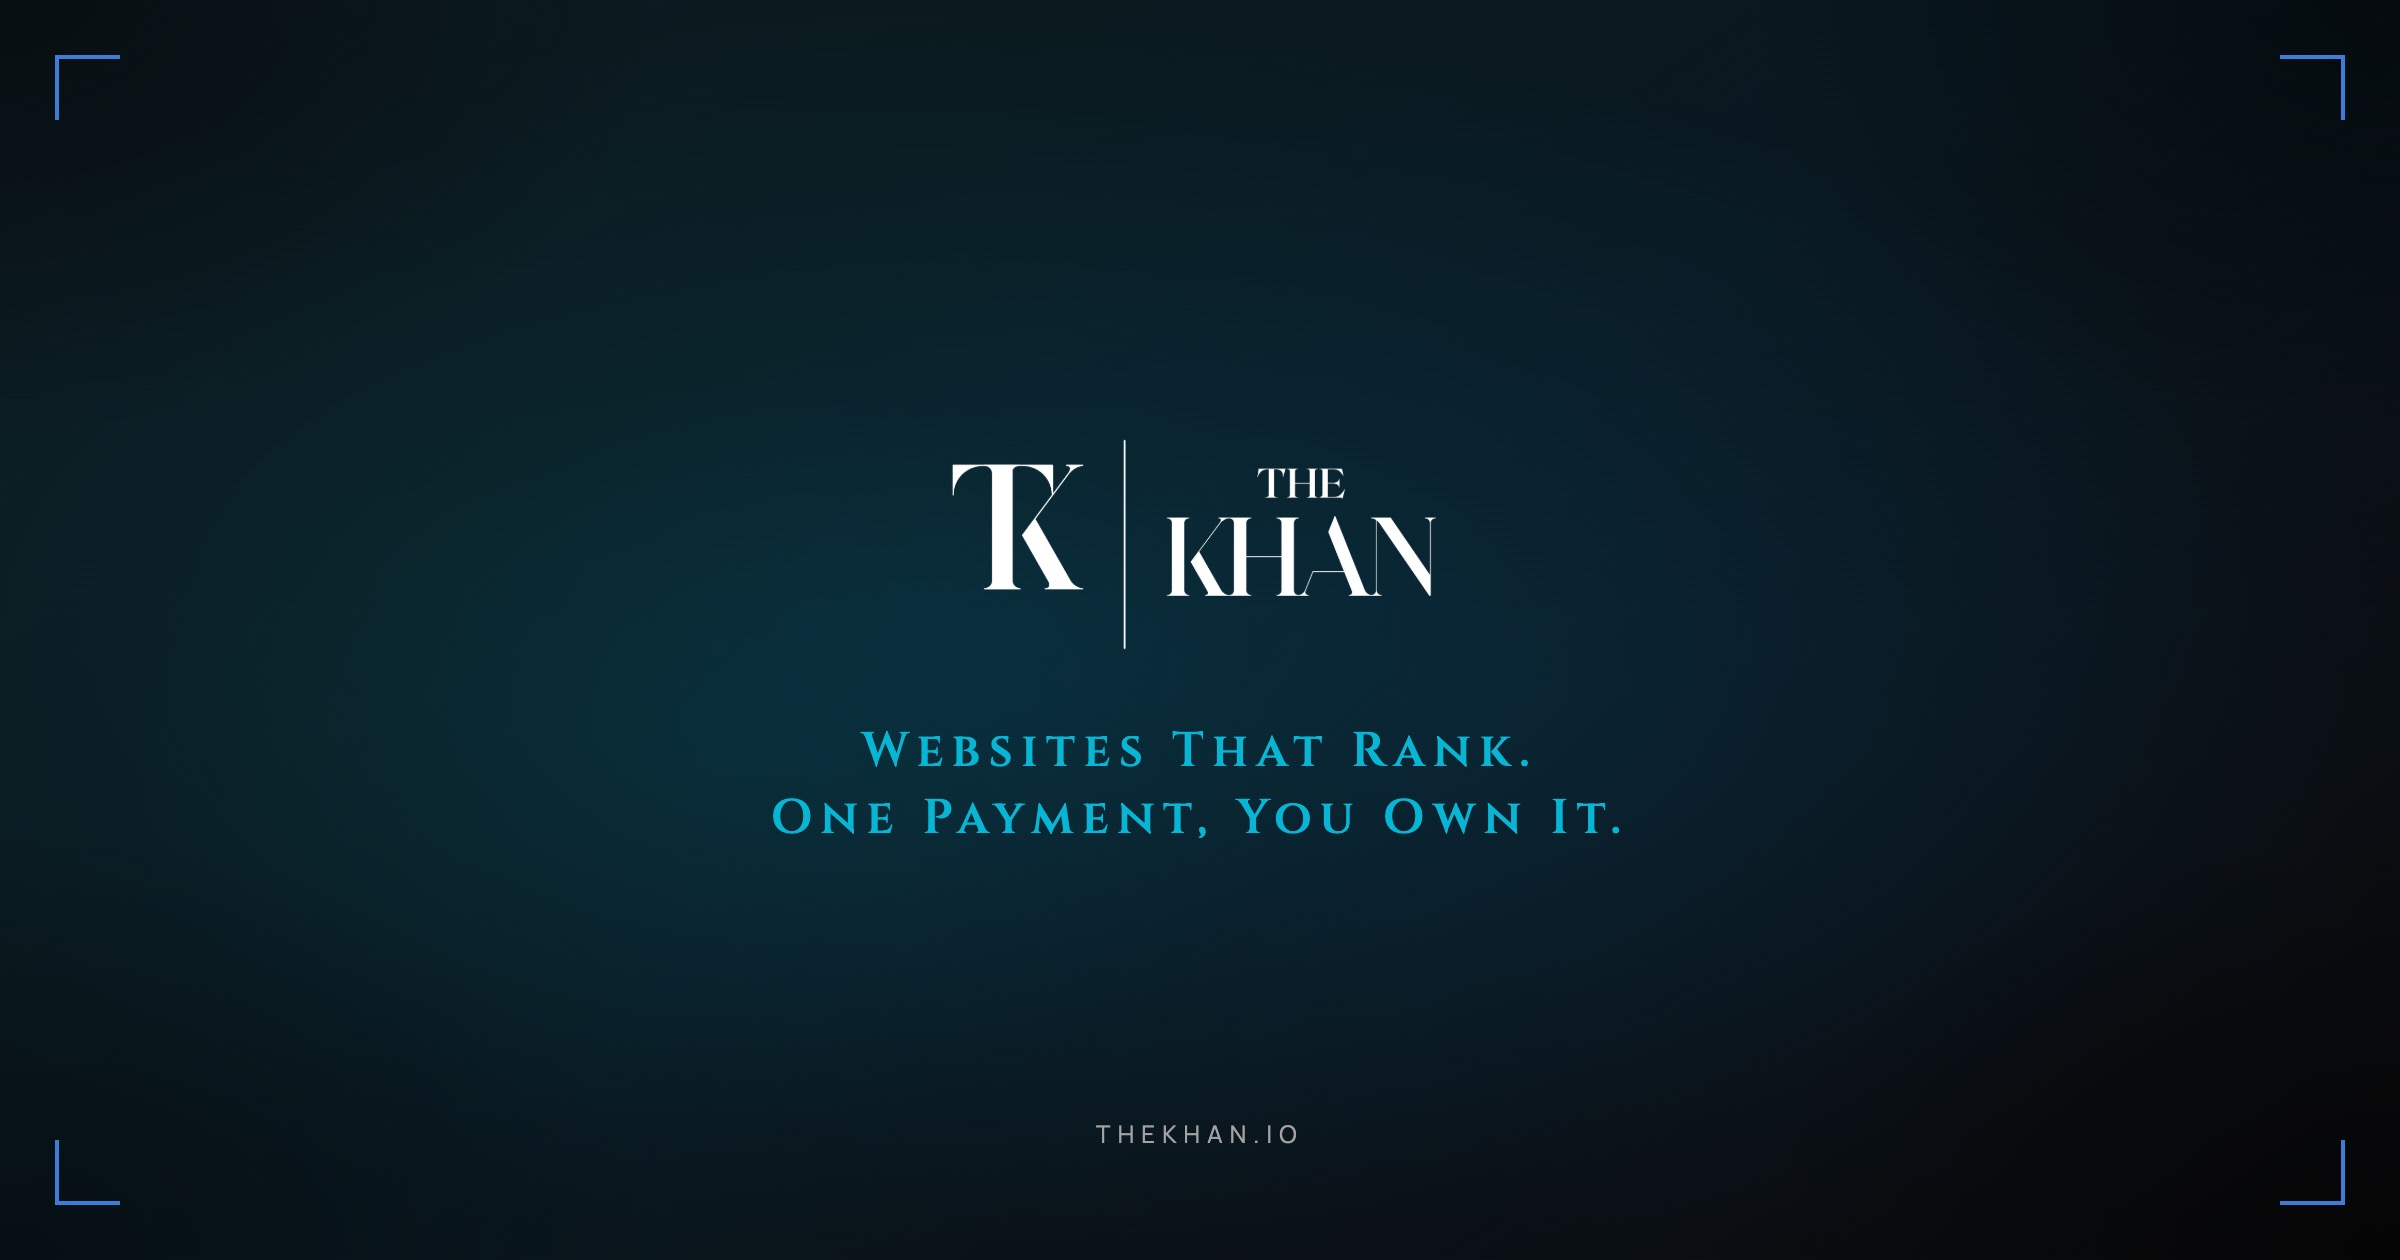
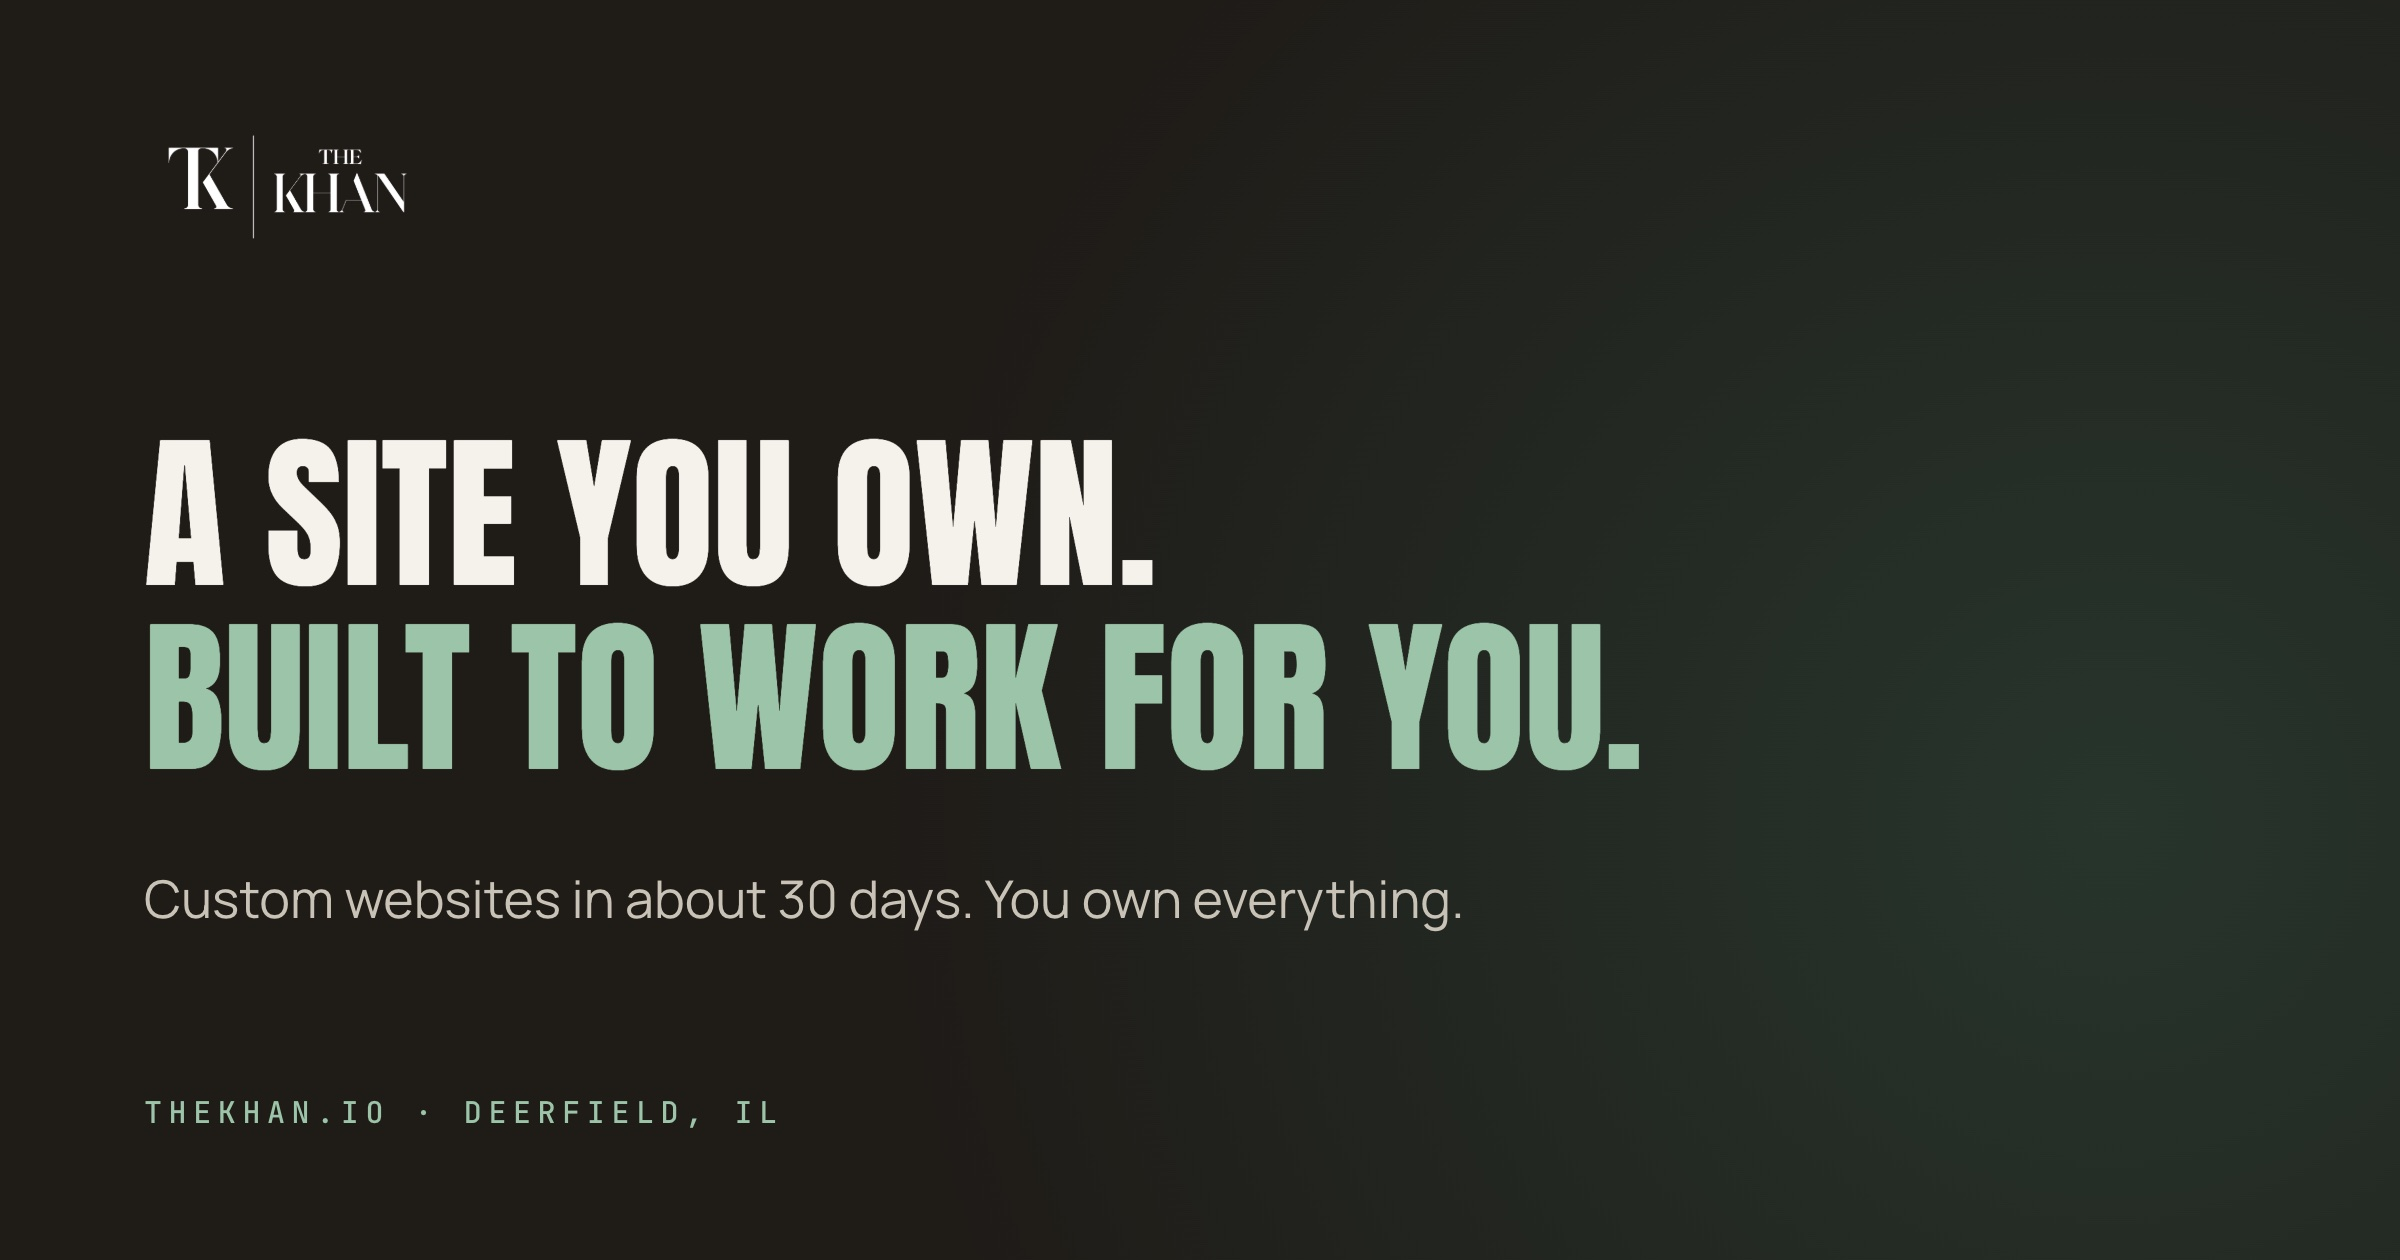
Add OG images for Marketing + Why-Intent, refresh Websites OG
- Generated 3 new OG images (1200x630 JPG, ~200KB each) matching the
  existing TheKhan template via HTML + Chrome screenshot pipeline:
  - marketing-og.jpg — 'YOU DO THE WORK. / I MAKE SURE PEOPLE FIND YOU.'
  - why-intent-og.jpg — 'I MARKET TO PEOPLE / ALREADY LOOKING FOR YOU.'
  - websites-og.jpg — 'A SITE YOU OWN. / BUILT TO WORK FOR YOU.'
    (replaces stale 'BUILT TO RANK' tagline to match current page hero)
- Wired ogImage refs in React pages + worker meta for all three routes
- Deleted stale OG files for removed routes:
  contractors-og.jpg, home-services-og.png, local-services-og.png

Marketing + Why-Intent now have dedicated social previews instead of
falling back to the homepage OG.

diff --git a/src/components/ClientTrustStrip.tsx b/src/components/ClientTrustStrip.tsx
@@ -23,11 +23,10 @@ interface ClientLogo {
 const CLIENTS: ClientLogo[] = [
   { name: "Premier Partners", src: "/portfolio/premier-partners-logo.png", kind: "icon" },
   { name: "MarioScape", src: "/portfolio/marioscape-logo.png", kind: "wordmark" },
+  { name: "Clean Green Property", src: "/portfolio/cleangreen-logo.png", kind: "icon" },
+  { name: "Simpli Clock", src: "/portfolio/simpli-logo.png", kind: "icon" },
   { name: "Nour's Barbershop", src: "/portfolio/nours-logo.png", kind: "icon" },
   { name: "WAF Chicago", src: "/portfolio/waf-logo.png", kind: "icon" },
-  // TODO (Omair to provide): add Simpli Clock once the logo asset + site URL are ready.
-  // Drop the logo into /public/portfolio/ and uncomment, with `href` to the Simpli Clock site.
-  // { name: "Simpli Clock", src: "/portfolio/simpli-clock-logo.png", kind: "icon", href: "https://<SIMPLI_CLOCK_URL>" },
 ];
 
 export function ClientTrustStrip({ className = "" }: { className?: string }) {
@@ -35,7 +34,7 @@ export function ClientTrustStrip({ className = "" }: { className?: string }) {
     <div className={className}>
       <p className="eyebrow eyebrow-accent mb-10 md:mb-12">Businesses that trust me</p>
       <ul
-        className="grid grid-cols-2 sm:grid-cols-3 md:flex md:flex-row md:flex-wrap md:items-center md:justify-between gap-x-12 md:gap-x-14 gap-y-10 md:gap-y-0"
+        className="grid grid-cols-2 sm:grid-cols-3 md:flex md:flex-row md:flex-wrap md:items-center md:justify-center gap-x-12 md:gap-x-14 gap-y-10 md:gap-y-12"
         aria-label="Clients I work with"
       >
         {CLIENTS.map((c) => {

diff --git a/worker/index.js b/worker/index.js
@@ -27,14 +27,14 @@ const ROUTE_META = {
     title: "Custom Web Design — Deerfield, IL | Sites You Own",
     description: "Custom websites built from scratch in about 30 days. You own every file, the domain, the logins. No retainer, no lock-in. Deerfield, IL.",
     canonical: "https://thekhan.io/websites",
-    ogImage: "https://thekhan.io/websites-og.png",
+    ogImage: "https://thekhan.io/websites-og.jpg",
     ogType: "website",
   },
   "/marketing": {
     title: "Marketing for Home Service & Local Businesses | TheKhan",
     description: "SEO, Google Ads, and Google Business Profile that get you found by people already searching — for home service and local businesses across Chicago. You do the work. I make sure people find you.",
     canonical: "https://thekhan.io/marketing",
-    ogImage: "https://thekhan.io/og-image.png",
+    ogImage: "https://thekhan.io/marketing-og.jpg",
     ogType: "website",
   },
   "/portfolio": {
@@ -55,7 +55,7 @@ const ROUTE_META = {
     title: "Intent Marketing vs Interruption Marketing | TheKhan",
     description: "Why I market to people already searching — Google, Maps, and AI like ChatGPT — instead of interrupting them on Facebook. The idea behind everything I do, plus the numbers.",
     canonical: "https://thekhan.io/why-intent",
-    ogImage: "https://thekhan.io/og-image.png",
+    ogImage: "https://thekhan.io/why-intent-og.jpg",
     ogType: "article",
   },
 };

diff --git a/src/pages/MarketingPage.tsx b/src/pages/MarketingPage.tsx
@@ -172,7 +172,7 @@ export default function MarketingPage() {
         title="Marketing for Home Service & Local Businesses | TheKhan"
         description="SEO, Google Ads, and Google Business Profile that get you found by people already searching — for home service and local businesses across Chicago. You do the work. I make sure people find you."
         canonical="https://thekhan.io/marketing"
-        ogImage="https://thekhan.io/og-image.png"
+        ogImage="https://thekhan.io/marketing-og.jpg"
         geo={{ region: "US-IL", placename: "Deerfield", position: "42.1711;-87.8445" }}
         schema={[BREADCRUMB_SCHEMA, MARKETING_SCHEMA, MARKETING_FAQ_SCHEMA]}
       />

diff --git a/src/pages/WebsitesPage.tsx b/src/pages/WebsitesPage.tsx
@@ -26,7 +26,7 @@ const faqs = [
 const PAGE_TITLE = "Custom Web Design — Deerfield, IL | Sites You Own";
 const PAGE_DESC = "Custom websites built from scratch in about 30 days. You own every file, the domain, the logins. No retainer, no lock-in. Deerfield, IL.";
 const PAGE_URL = "https://thekhan.io/websites";
-const OG_IMAGE = "https://thekhan.io/websites-og.png";
+const OG_IMAGE = "https://thekhan.io/websites-og.jpg";
 
 const BREADCRUMB_SCHEMA = {
   "@context": "https://schema.org",

diff --git a/src/pages/WhyIntentPage.tsx b/src/pages/WhyIntentPage.tsx
@@ -12,7 +12,7 @@ const PAGE_TITLE = "Intent Marketing vs Interruption Marketing | TheKhan";
 const PAGE_DESC =
   "Why I market to people already searching — Google, Maps, and AI like ChatGPT — instead of interrupting them on Facebook. The idea behind everything I do, plus the numbers.";
 const PAGE_URL = "https://thekhan.io/why-intent";
-const OG_IMAGE = "https://thekhan.io/og-image.png";
+const OG_IMAGE = "https://thekhan.io/why-intent-og.jpg";
 
 const BREADCRUMB_SCHEMA = {
   "@context": "https://schema.org",